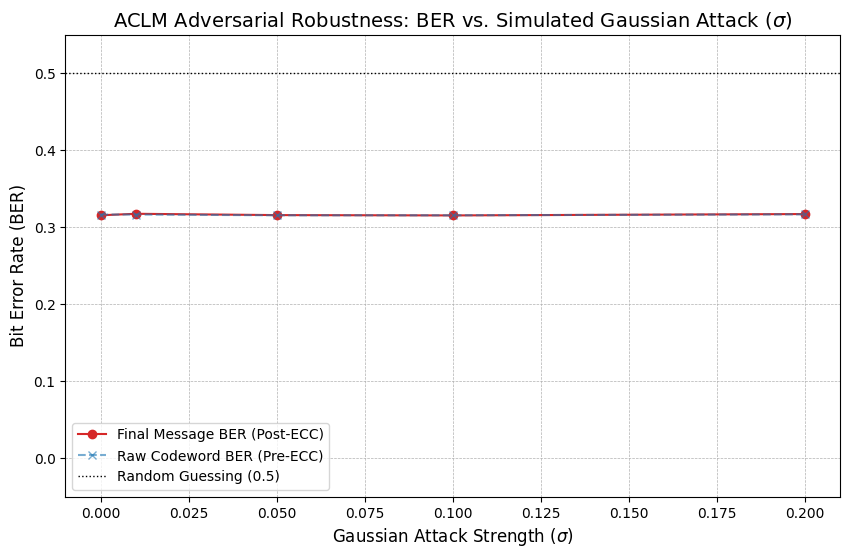
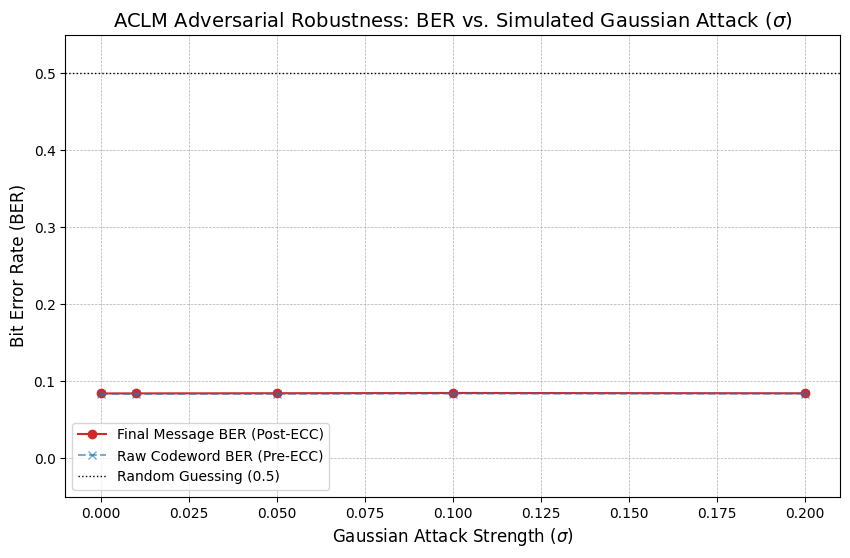
Generated outputs

Changed region(s): [[0.0918, 0.7007, 0.9482, 0.7312], [0.0918, 0.3656, 0.9482, 0.3961]]

diff --git a/report_outputs/thesis_metrics.md b/report_outputs/thesis_metrics.md
@@ -2,6 +2,6 @@
 | Metric                            |    Value |
 |:----------------------------------|---------:|
 | Final Message BER (Target < 0.01) | nan      |
-| Raw Codeword BER (Pre-ECC)        |   0.3165 |
+| Raw Codeword BER (Pre-ECC)        |   0.0835 |
 | True Positive Rate (TPR)          | nan      |
 | True Negative Rate (TNR)          | nan      |
